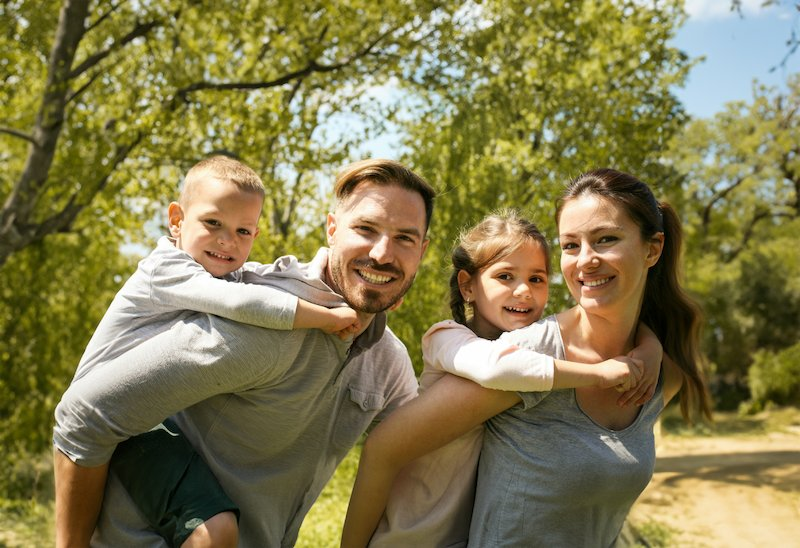
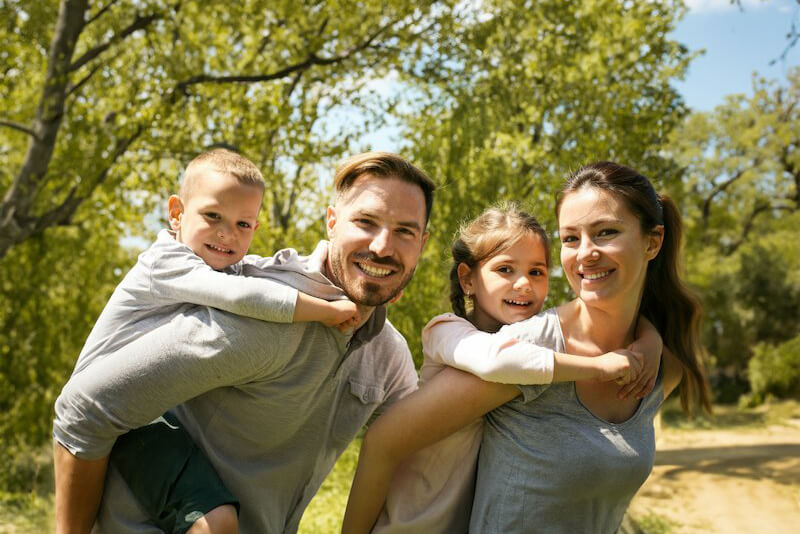
feat: 支持多图片格式上传及优化部署配置

diff --git a/src/main/java/com/rawchen/service/impl/OssUploadServiceImpl.java b/src/main/java/com/rawchen/service/impl/OssUploadServiceImpl.java
@@ -101,13 +101,24 @@ public class OssUploadServiceImpl implements OssUploadService {
     @Override
     public String uploadFile(org.springframework.web.multipart.MultipartFile file, String folder) {
         try {
-            // 生成文件名：时间戳_随机两位.jpg
-            String fileName = folder + generateFileName();
-            String objectKey = ossConfig.getUploadFolder() + "/" + fileName;
             String contentType = file.getContentType();
             if (contentType == null) {
                 contentType = "image/jpeg";
             }
+
+            // 根据内容类型确定扩展名
+            String extension = ".jpg";
+            if ("image/png".equals(contentType)) {
+                extension = ".png";
+            } else if ("image/gif".equals(contentType)) {
+                extension = ".gif";
+            } else if ("image/webp".equals(contentType)) {
+                extension = ".webp";
+            }
+
+            // 生成文件名：时间戳_随机两位.扩展名
+            String fileName = folder + generateFileNameWithExtension(extension);
+            String objectKey = ossConfig.getUploadFolder() + "/" + fileName;
 
             InputStream inputStream = file.getInputStream();
             long contentLength = file.getSize();
@@ -129,11 +140,23 @@ public class OssUploadServiceImpl implements OssUploadService {
             URL url = new URL(imageUrl);
             InputStream inputStream = url.openStream();
 
-            // 默认使用jpeg格式
+            // 从URL推断内容类型和文件扩展名
             String contentType = "image/jpeg";
+            String extension = ".jpg";
+            String path = url.getPath();
+            if (path.endsWith(".png")) {
+                contentType = "image/png";
+                extension = ".png";
+            } else if (path.endsWith(".gif")) {
+                contentType = "image/gif";
+                extension = ".gif";
+            } else if (path.endsWith(".webp")) {
+                contentType = "image/webp";
+                extension = ".webp";
+            }
 
-            // 生成文件名：时间戳_随机两位.jpg
-            String fileName = folder + generateFileName();
+            // 生成文件名：时间戳_两位随机数字.扩展名
+            String fileName = folder + generateFileNameWithExtension(extension);
             String objectKey = ossConfig.getUploadFolder() + "/" + fileName;
 
             uploadToOss(inputStream, objectKey, contentType, -1);
@@ -186,9 +209,16 @@ public class OssUploadServiceImpl implements OssUploadService {
      * 生成唯一文件名：年月日时分秒_两位随机数字.jpg
      */
     public static String generateFileName() {
+        return generateFileNameWithExtension(".jpg");
+    }
+
+    /**
+     * 生成唯一文件名：年月日时分秒_两位随机数字.扩展名
+     */
+    public static String generateFileNameWithExtension(String extension) {
         SimpleDateFormat sdf = new SimpleDateFormat("yyyyMMddHHmmss");
         String timestamp = sdf.format(new java.util.Date());
         String random = String.format("%02d", new Random().nextInt(100));
-        return timestamp + "_" + random + ".jpg";
+        return timestamp + "_" + random + extension;
     }
 }

diff --git a/src/main/java/com/rawchen/util/GptUtil.java b/src/main/java/com/rawchen/util/GptUtil.java
@@ -31,6 +31,9 @@ public class GptUtil {
     @Value("${gpt.image.model}")
     private String model;
 
+    @Value("${oss.custom-domain:cdn.rawchen.com}")
+    private String cdnDomain;
+
     /**
      * 调用GPT图像编辑API增强图片
      *
@@ -154,12 +157,50 @@ public class GptUtil {
      * 从URL下载文件到临时文件
      */
     private File downloadUrlToFile(String url, String prefix) throws IOException {
-        File tempFile = File.createTempFile(prefix, ".jpg");
-        HttpRequest.get(url)
-                .timeout(60000)
-                .execute()
-                .writeBody(tempFile);
-        return tempFile;
+        // 从URL中提取文件扩展名
+        String extension = ".png";
+        int lastDot = url.lastIndexOf('.');
+        int queryIndex = url.indexOf('?', lastDot);
+        if (lastDot > 0) {
+            if (queryIndex > lastDot) {
+                extension = url.substring(lastDot, queryIndex);
+            } else if (queryIndex == -1) {
+                extension = url.substring(lastDot);
+            }
+        }
+        if (extension.length() > 5) {
+            extension = extension.substring(0, 5);
+        }
+
+        File tempFile = File.createTempFile(prefix, extension);
+
+        int maxRetries = 3;
+        Exception lastException = null;
+
+        for (int i = 0; i < maxRetries; i++) {
+            try {
+                HttpRequest.get(url)
+                        .header("Referer", "https://" + cdnDomain + "/")
+                        .timeout(60000)
+                        .execute()
+                        .writeBody(tempFile);
+
+                if (tempFile.length() > 0) {
+                    log.info("Downloaded file from {}, size: {} bytes", url, tempFile.length());
+                    return tempFile;
+                }
+            } catch (Exception e) {
+                lastException = e;
+                log.warn("Download attempt {} failed: {}", i + 1, e.getMessage());
+            }
+            if (i < maxRetries - 1) {
+                try {
+                    Thread.sleep(1000);
+                } catch (InterruptedException ignored) {}
+            }
+        }
+
+        throw new IOException("无法下载文件: " + url + (lastException != null ? ", " + lastException.getMessage() : ""));
     }
 
     /**

diff --git a/src/main/java/com/rawchen/config/SecurityConfig.java b/src/main/java/com/rawchen/config/SecurityConfig.java
@@ -46,7 +46,7 @@ public class SecurityConfig {
                         .antMatchers("/", "/index.html", "/static/**", "/js/**", "/css/**", "/img/**", "/assets/**", "/icons/**", "/favicon.ico", "favicon.svg").permitAll()
                         .antMatchers("/*.js", "/*.css", "/*.png", "/*.jpg", "/*.ico").permitAll()
                         // 放行所有前端路由（非 API 和非静态资源）
-                        .antMatchers("/id/**", "/favorites", "/recharge", "/enhance", "/create", "/admin/**", "/profile", "/not-found", "/like", "/hot", "/down").permitAll()
+                        .antMatchers("/id/**", "/favorites", "/recharge", "/enhance", "/create", "/remove", "/expand", "/admin/**", "/profile", "/not-found", "/like", "/hot", "/down").permitAll()
                         .antMatchers("/api/admin/**").hasAnyRole("ADMIN", "STAFF")
                         .anyRequest().authenticated()
                 )
